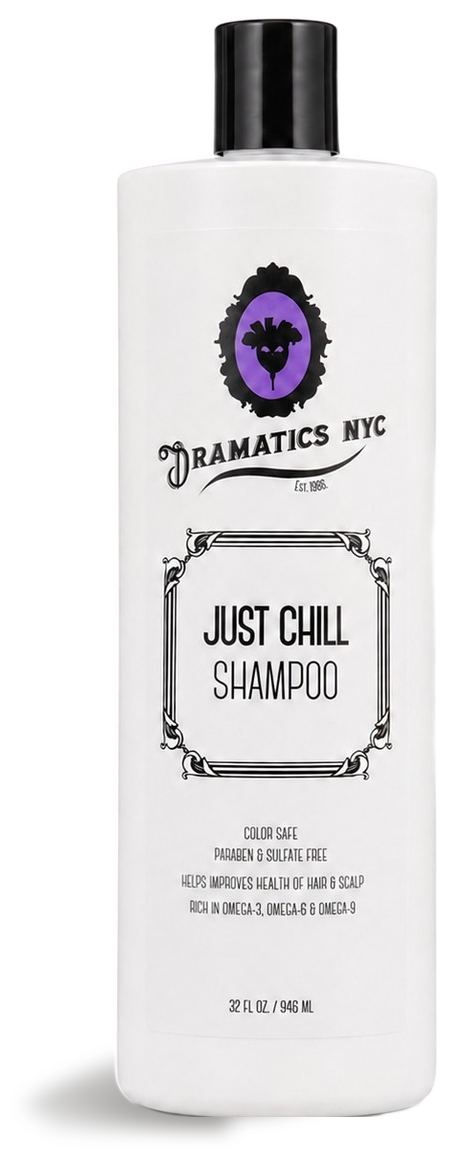
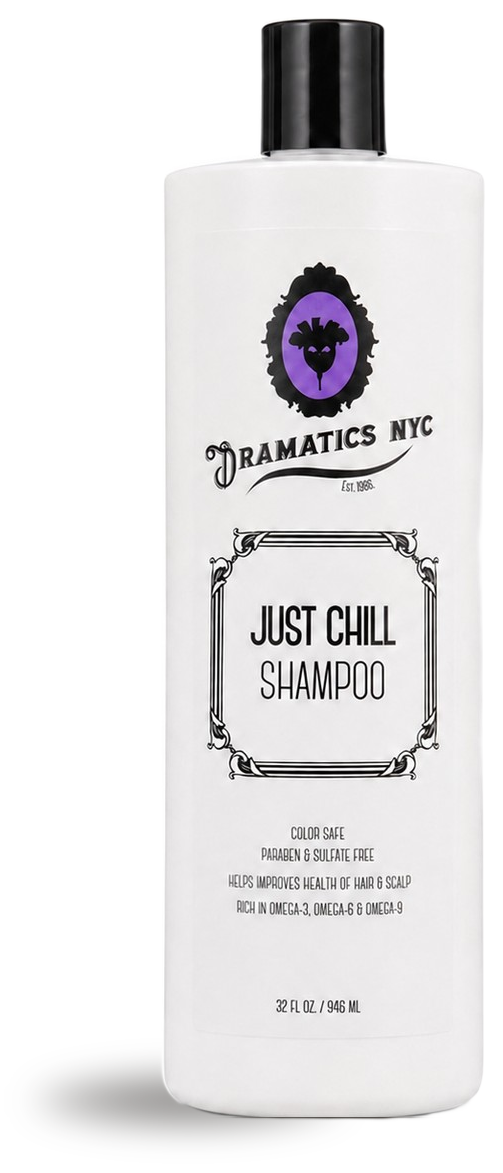
Products: keep the real photographed shadows on Quantum Leap, Forever Young and Color Protect Shampoo; the seven white-base cutouts get an Ocean Beach-style soft ellipse shadow (no more chopped bottoms)

diff --git a/scripts/product-shadows.py b/scripts/product-shadows.py
@@ -1,69 +1,54 @@
 #!/usr/bin/env python3
 """
-Give a clean product cutout (transparent PNG, no baked-in shadow) the same soft,
-angled floor shadow the Ocean Beach Sea Salt Spray photo (42263.png) has: a dark,
-blurred wedge hugging the base and stretching to the lower left.
+Give a clean product cutout (transparent PNG, no baked-in shadow) the same soft
+floor shadow the Ocean Beach Sea Salt Spray photo (42263.png) has: the base
+ellipse of the product, pushed to the lower left and heavily blurred, so most of
+it peeks out on the left of the base with a little under the bottom edge.
 
 Usage:
   python3 scripts/product-shadows.py <cutout.png> <out.png>
 
-Only run this on cutouts WITHOUT an existing shadow (the Dramatics NYC white
-products were re-cut with a background remover first). The Healthy Color
-products already carry their original photographed shadow and are left alone.
+Only run this on cutouts WITHOUT an existing shadow. Products whose original
+photo already carries a real shadow (the Healthy Color line, Quantum Leap,
+Forever Young, Color Protect Shampoo) are left untouched.
 """
 import sys
 import numpy as np
 from PIL import Image, ImageFilter
 
 SHADOW_RGB = (50, 46, 43)   # sampled from 42263.png
-PEAK_ALPHA = 0.5           # next to the base
-FAR_ALPHA = 0.10            # at the far tip
-BLUR = 9
+PEAK_ALPHA = 0.55           # centre of the ellipse (42263 peaks ~0.43 next to the body)
 
 
 def add_shadow(src: str, dst: str) -> None:
     im = Image.open(src).convert("RGBA")
-    a = np.array(im)
-    alpha = a[..., 3]
+    alpha = np.array(im)[..., 3]
     ys, xs = np.where(alpha > 128)
-    top, bottom, left, right = ys.min(), ys.max(), xs.min(), xs.max()
-    h, w = bottom - top + 1, right - left + 1
+    top, bottom = ys.min(), ys.max()
+    h = bottom - top + 1
 
-    # base span: widest rows in the bottom 6% of the body
-    base_rows = alpha[bottom - int(h * 0.06):bottom + 1]
+    # base span: widest rows in the bottom 5% of the body
+    base_rows = alpha[bottom - int(h * 0.05):bottom + 1]
     cols = np.where(base_rows.max(axis=0) > 128)[0]
     bl, br = cols.min(), cols.max()
     bw = br - bl + 1
+    cx = (bl + br) / 2
 
-    # Ocean Beach proportions: the shadow is the base of the silhouette sheared
-    # to the lower left: no offset at the top of the band, ~0.44 of the base
-    # width at the bottom (capped by height so wide jars stay sane), band
-    # ~0.05 of the height tall, alpha strongest against the body.
-    ext = int(min(0.44 * bw, 0.2 * h))
-    band = max(18, int(h * 0.05))
-    drop = max(4, int(h * 0.01))
-    pad = ext + BLUR * 4
-    W, H = im.width + pad, im.height + BLUR * 4
+    # Ocean Beach proportions (bottle 250 wide, 916 tall):
+    # shadow reaches ~0.44 bw left of the body, spans ~0.055 h vertically,
+    # sits mostly above the bottom edge with ~0.012 h showing below it.
+    ew = 1.0 * bw                    # ellipse width
+    eh = max(24, 0.055 * h)          # ellipse height
+    ecx = cx - 0.42 * bw             # pushed left
+    ecy = bottom - 0.28 * eh         # a little below the base line
+    blur = float(max(6, 0.014 * h))
 
-    body = alpha > 128
-    sh = np.zeros((H, W), dtype=np.float32)
-    for y in range(bottom - band, bottom + drop + 1):
-        sy = min(y, bottom)                       # rows below the base reuse it
-        t = 1 - (bottom - sy) / band              # 0 at top of band, 1 at base
-        off = int(ext * t)
-        row = body[sy]
-        xs_row = np.where(row)[0]
-        if len(xs_row) == 0:
-            continue
-        xl = xs_row.min()
-        # shifted silhouette row, alpha fading with distance from the body edge
-        for x in range(xl - off, xl + int(0.6 * bw)):
-            if x < 0 or x + off >= im.width or not row[min(im.width - 1, x + off)]:
-                continue
-            d = max(0, xl - x) / max(1, ext)
-            wy = 0.45 + 0.55 * t
-            sh[y, x + pad] = (PEAK_ALPHA - (PEAK_ALPHA - FAR_ALPHA) * d) * wy
-    mask = Image.fromarray((sh * 255).astype(np.uint8)).filter(ImageFilter.GaussianBlur(BLUR))
+    pad = int(0.6 * bw + blur * 4)
+    W, H = im.width + pad, im.height + int(blur * 4)
+    yy, xx = np.mgrid[0:H, 0:W]
+    r2 = ((xx - (ecx + pad)) / (ew / 2)) ** 2 + ((yy - ecy) / (eh / 2)) ** 2
+    sh = np.clip(1 - r2, 0, 1) ** 0.7 * PEAK_ALPHA
+    mask = Image.fromarray((sh * 255).astype(np.uint8)).filter(ImageFilter.GaussianBlur(blur))
 
     out = Image.new("RGBA", (W, H), (0, 0, 0, 0))
     layer = Image.new("RGBA", (W, H), SHADOW_RGB + (255,))
@@ -71,7 +56,6 @@ def add_shadow(src: str, dst: str) -> None:
     out.alpha_composite(layer)
     out.alpha_composite(im, (pad, 0))
 
-    # trim to content with a small pad
     oa = np.array(out)[..., 3]
     ys, xs = np.where(oa > 2)
     p = 16
